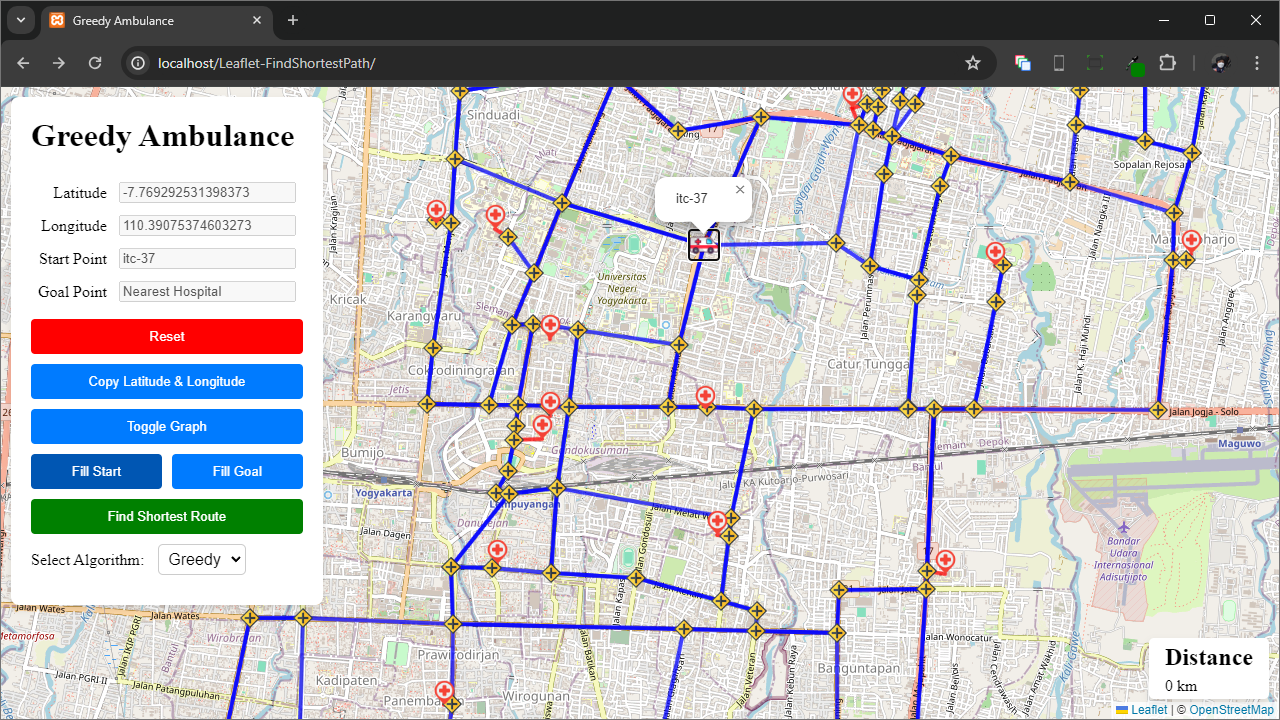
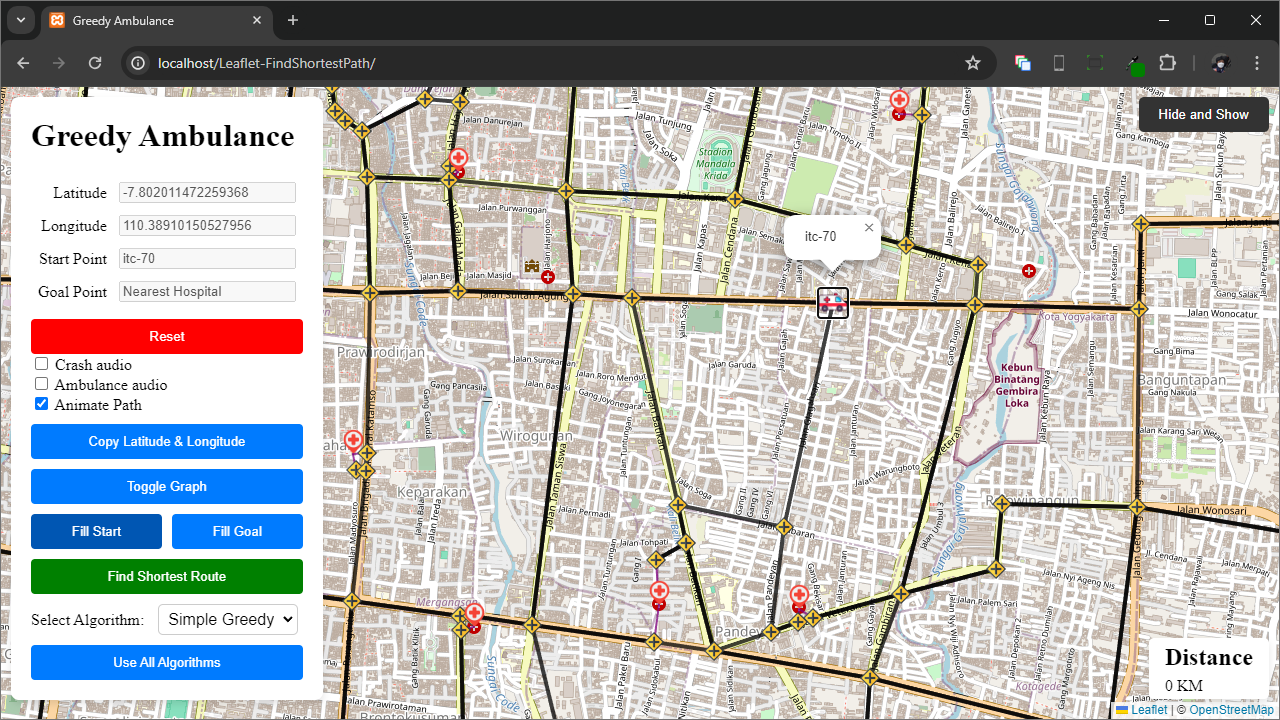
docs: update readme to match latest UI

diff --git a/README.md b/README.md
@@ -32,6 +32,8 @@ If no goal point was specified, the website passes `null` to the algorithm and f
   ![image](assets/algorithm-selection.png)
 - **Showing the shortest path**<br>
   ![image](assets/shortest-path.png)
+- **Using All Algorithms**<br>
+  ![image](assets/all-algo-path.png)
 
 ## Installing
 
